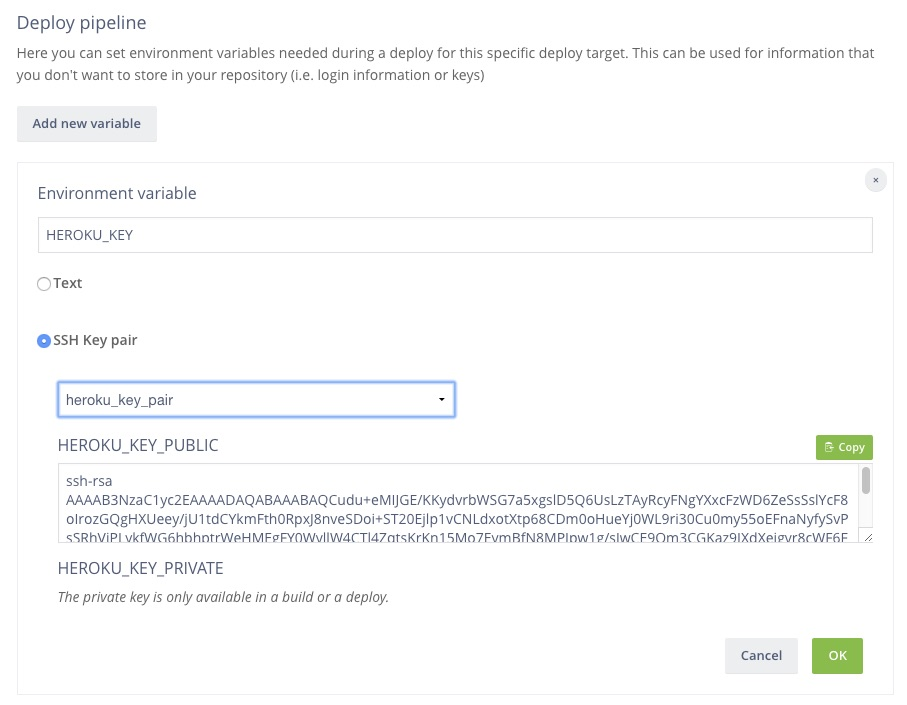
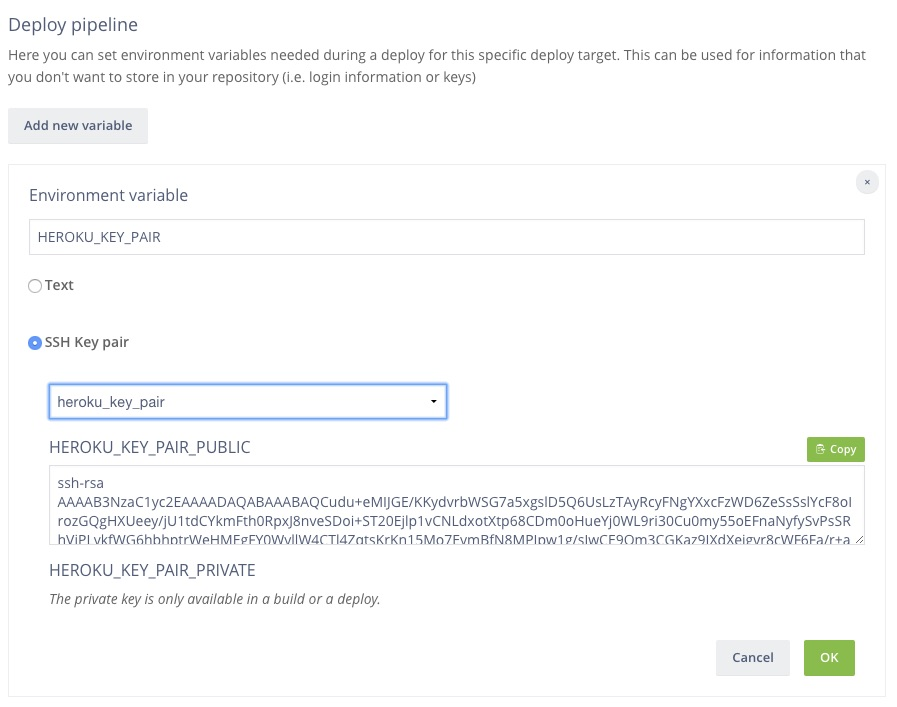
updated heroku article with correct SSH key info

diff --git a/content/quickstarts/deployment/heroku.md b/content/quickstarts/deployment/heroku.md
@@ -222,8 +222,10 @@ Heroku that an SSH key has been added to your account. This can get
 pretty annoying so let's remedy it.
 
 Instead of using the API key we are going to generate an SSH key on
-wercker. First, delete the `HEROKU_KEY` environment variable for your
-deploy target. Then in the *SSH Keys* section generate a new key pair,
+wercker. We leave the `HEROKU_KEY` environment variable in place just in
+case as it
+is needed if we want to do anything with the `heroku toolbelt`.
+Then in the *SSH Keys* section generate a new key pair,
 for instance with the name `heroku_key_pair`. Copy that key to your
 clipboard and add it as a new key on your Heroku account page in the SSH
 keys section.
@@ -232,8 +234,21 @@ keys section.
 
 Next go back to the environment variables for your deploy target and
 create a new environment variable. Instead of picking *text* field as option, now pick the *SSH Key pair*
-option and select the key you just generated. You can use the same name
-as we did before, `HEROKU_KEY`.
+option and select the key you just generated. Assign the name
+`HEROKU_KEY_PAIR` to the environment variable.
+
+Update your `wercker.yml` as follows:
+
+```yaml
+deploy:
+  steps:
+    - heroku-deploy:
+        key: $HEROKU_KEY
+        key-name: $HEROKU_KEY_PAIR
+        user: $HEROKU_USER
+        app-name: $HEROKU_APP_NAME
+```
+
 
 ![image](/images/heroku_08.jpg)
 
